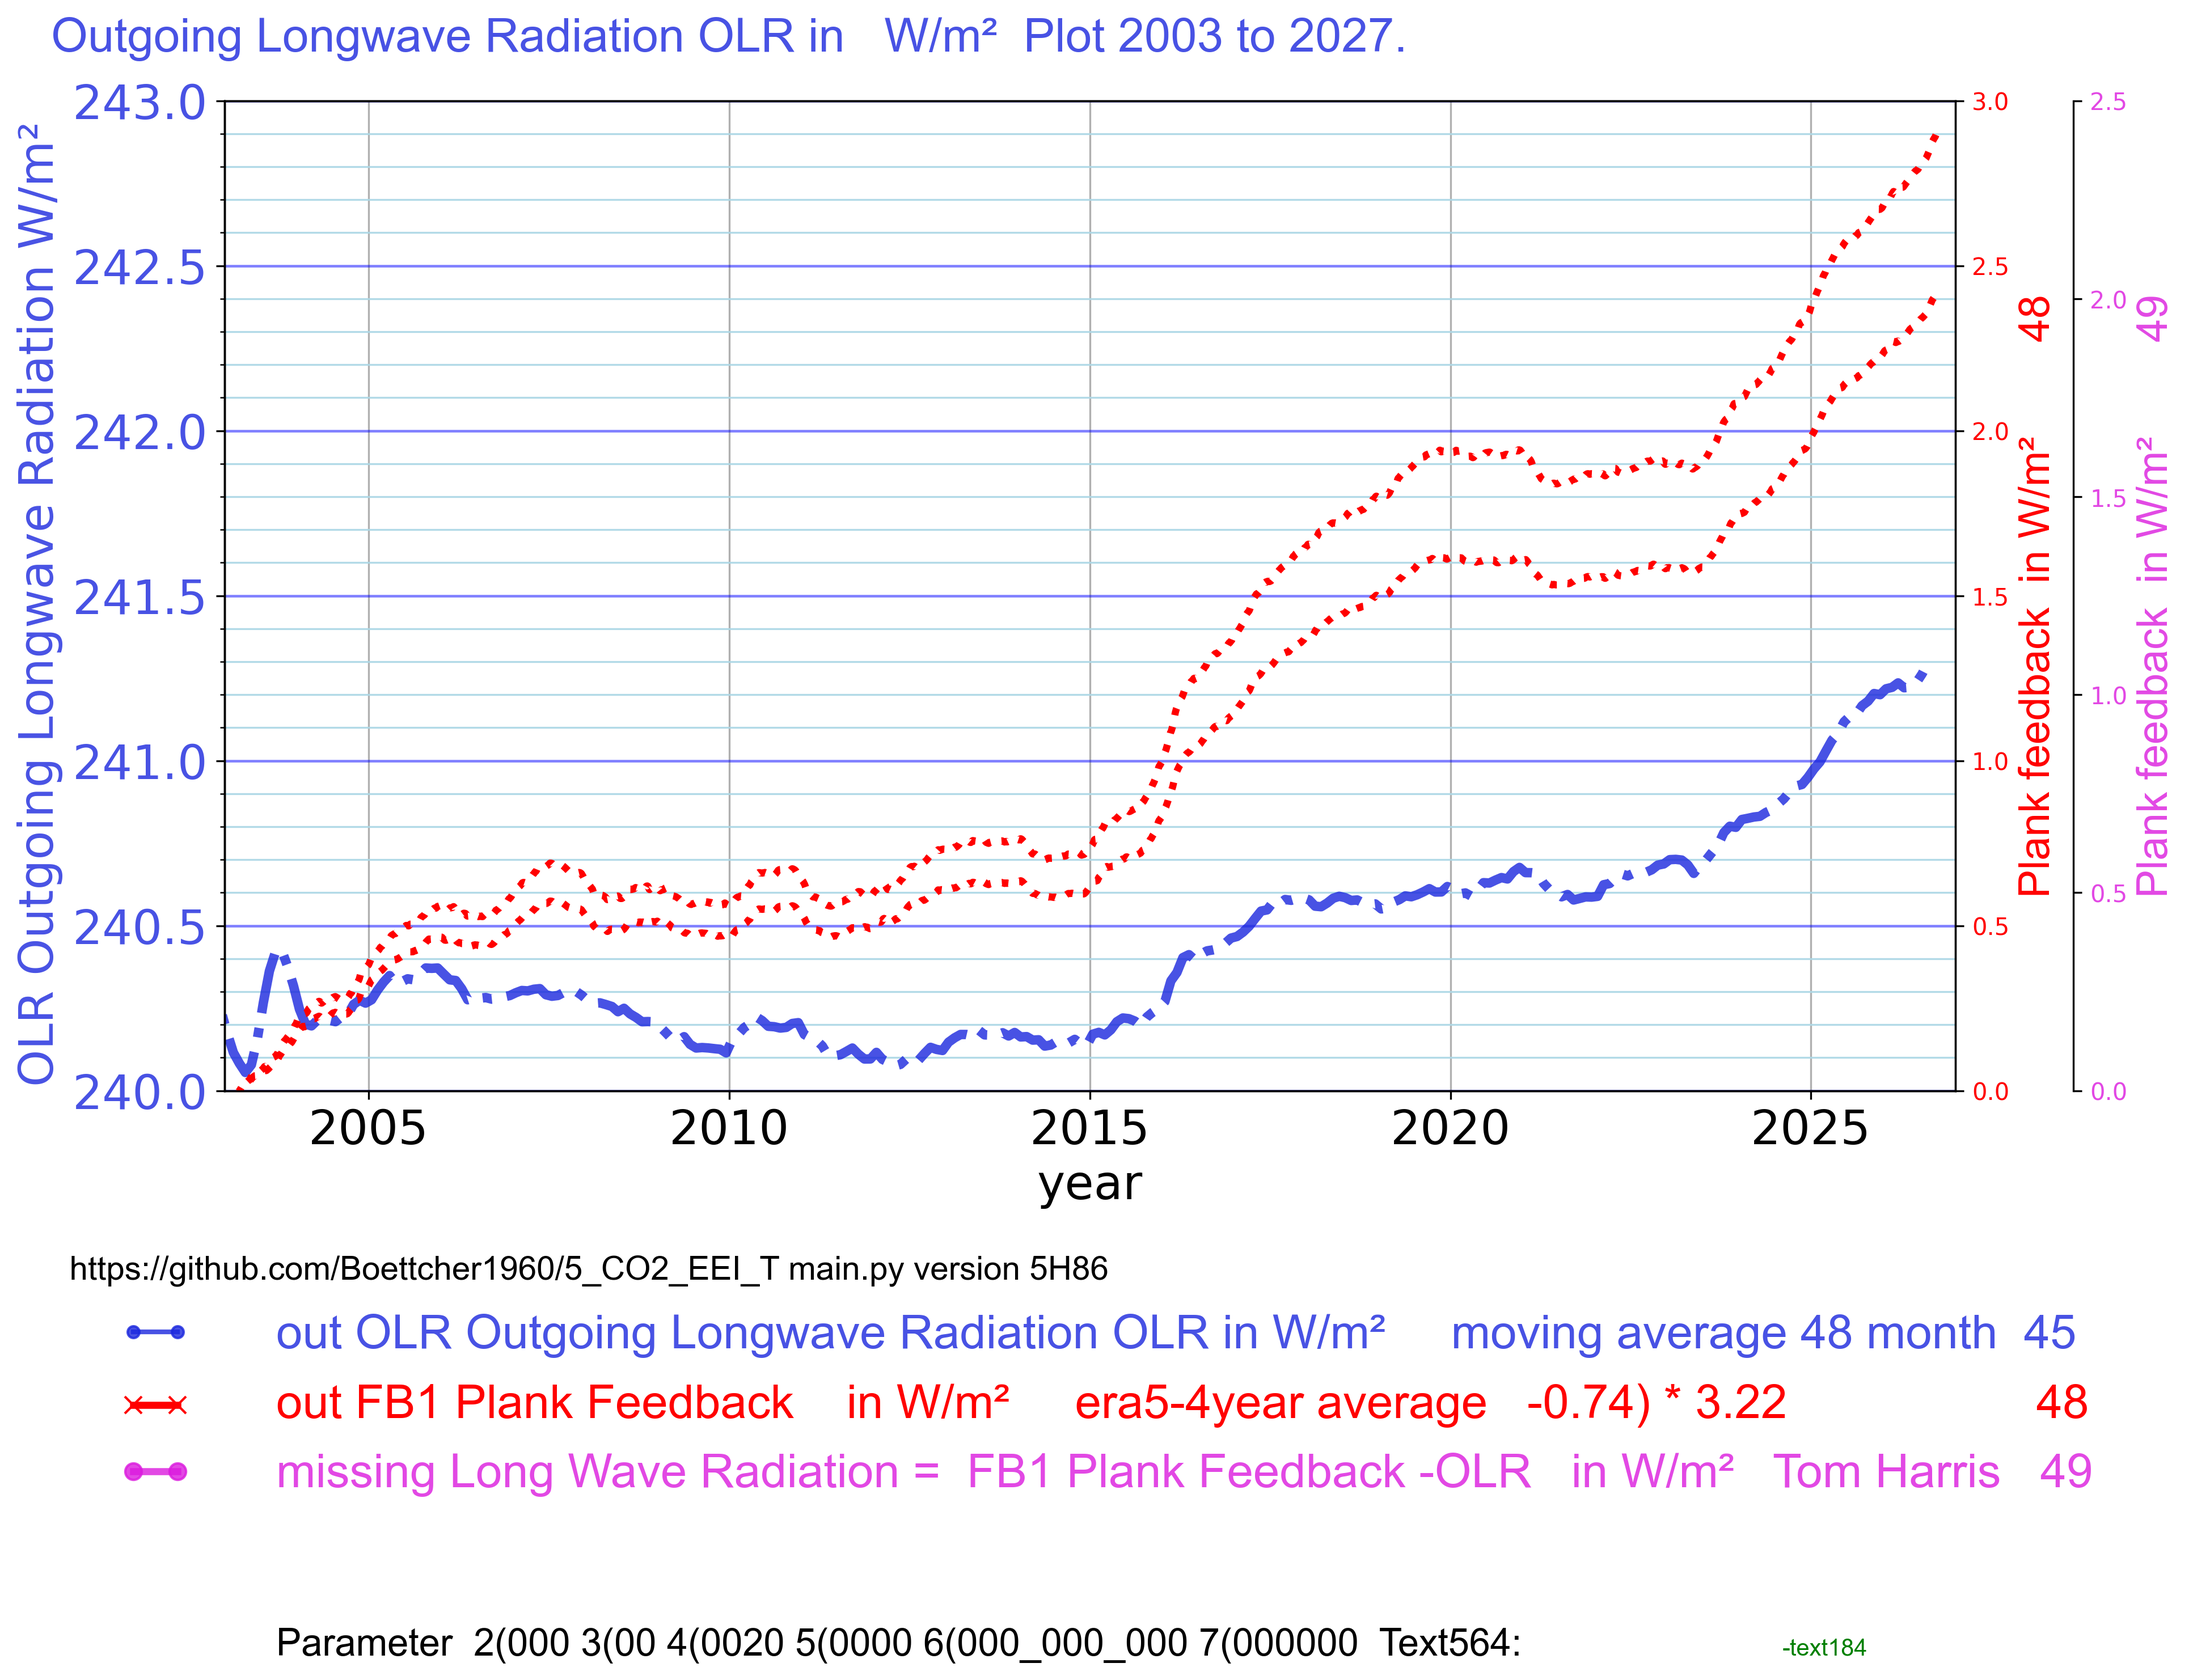
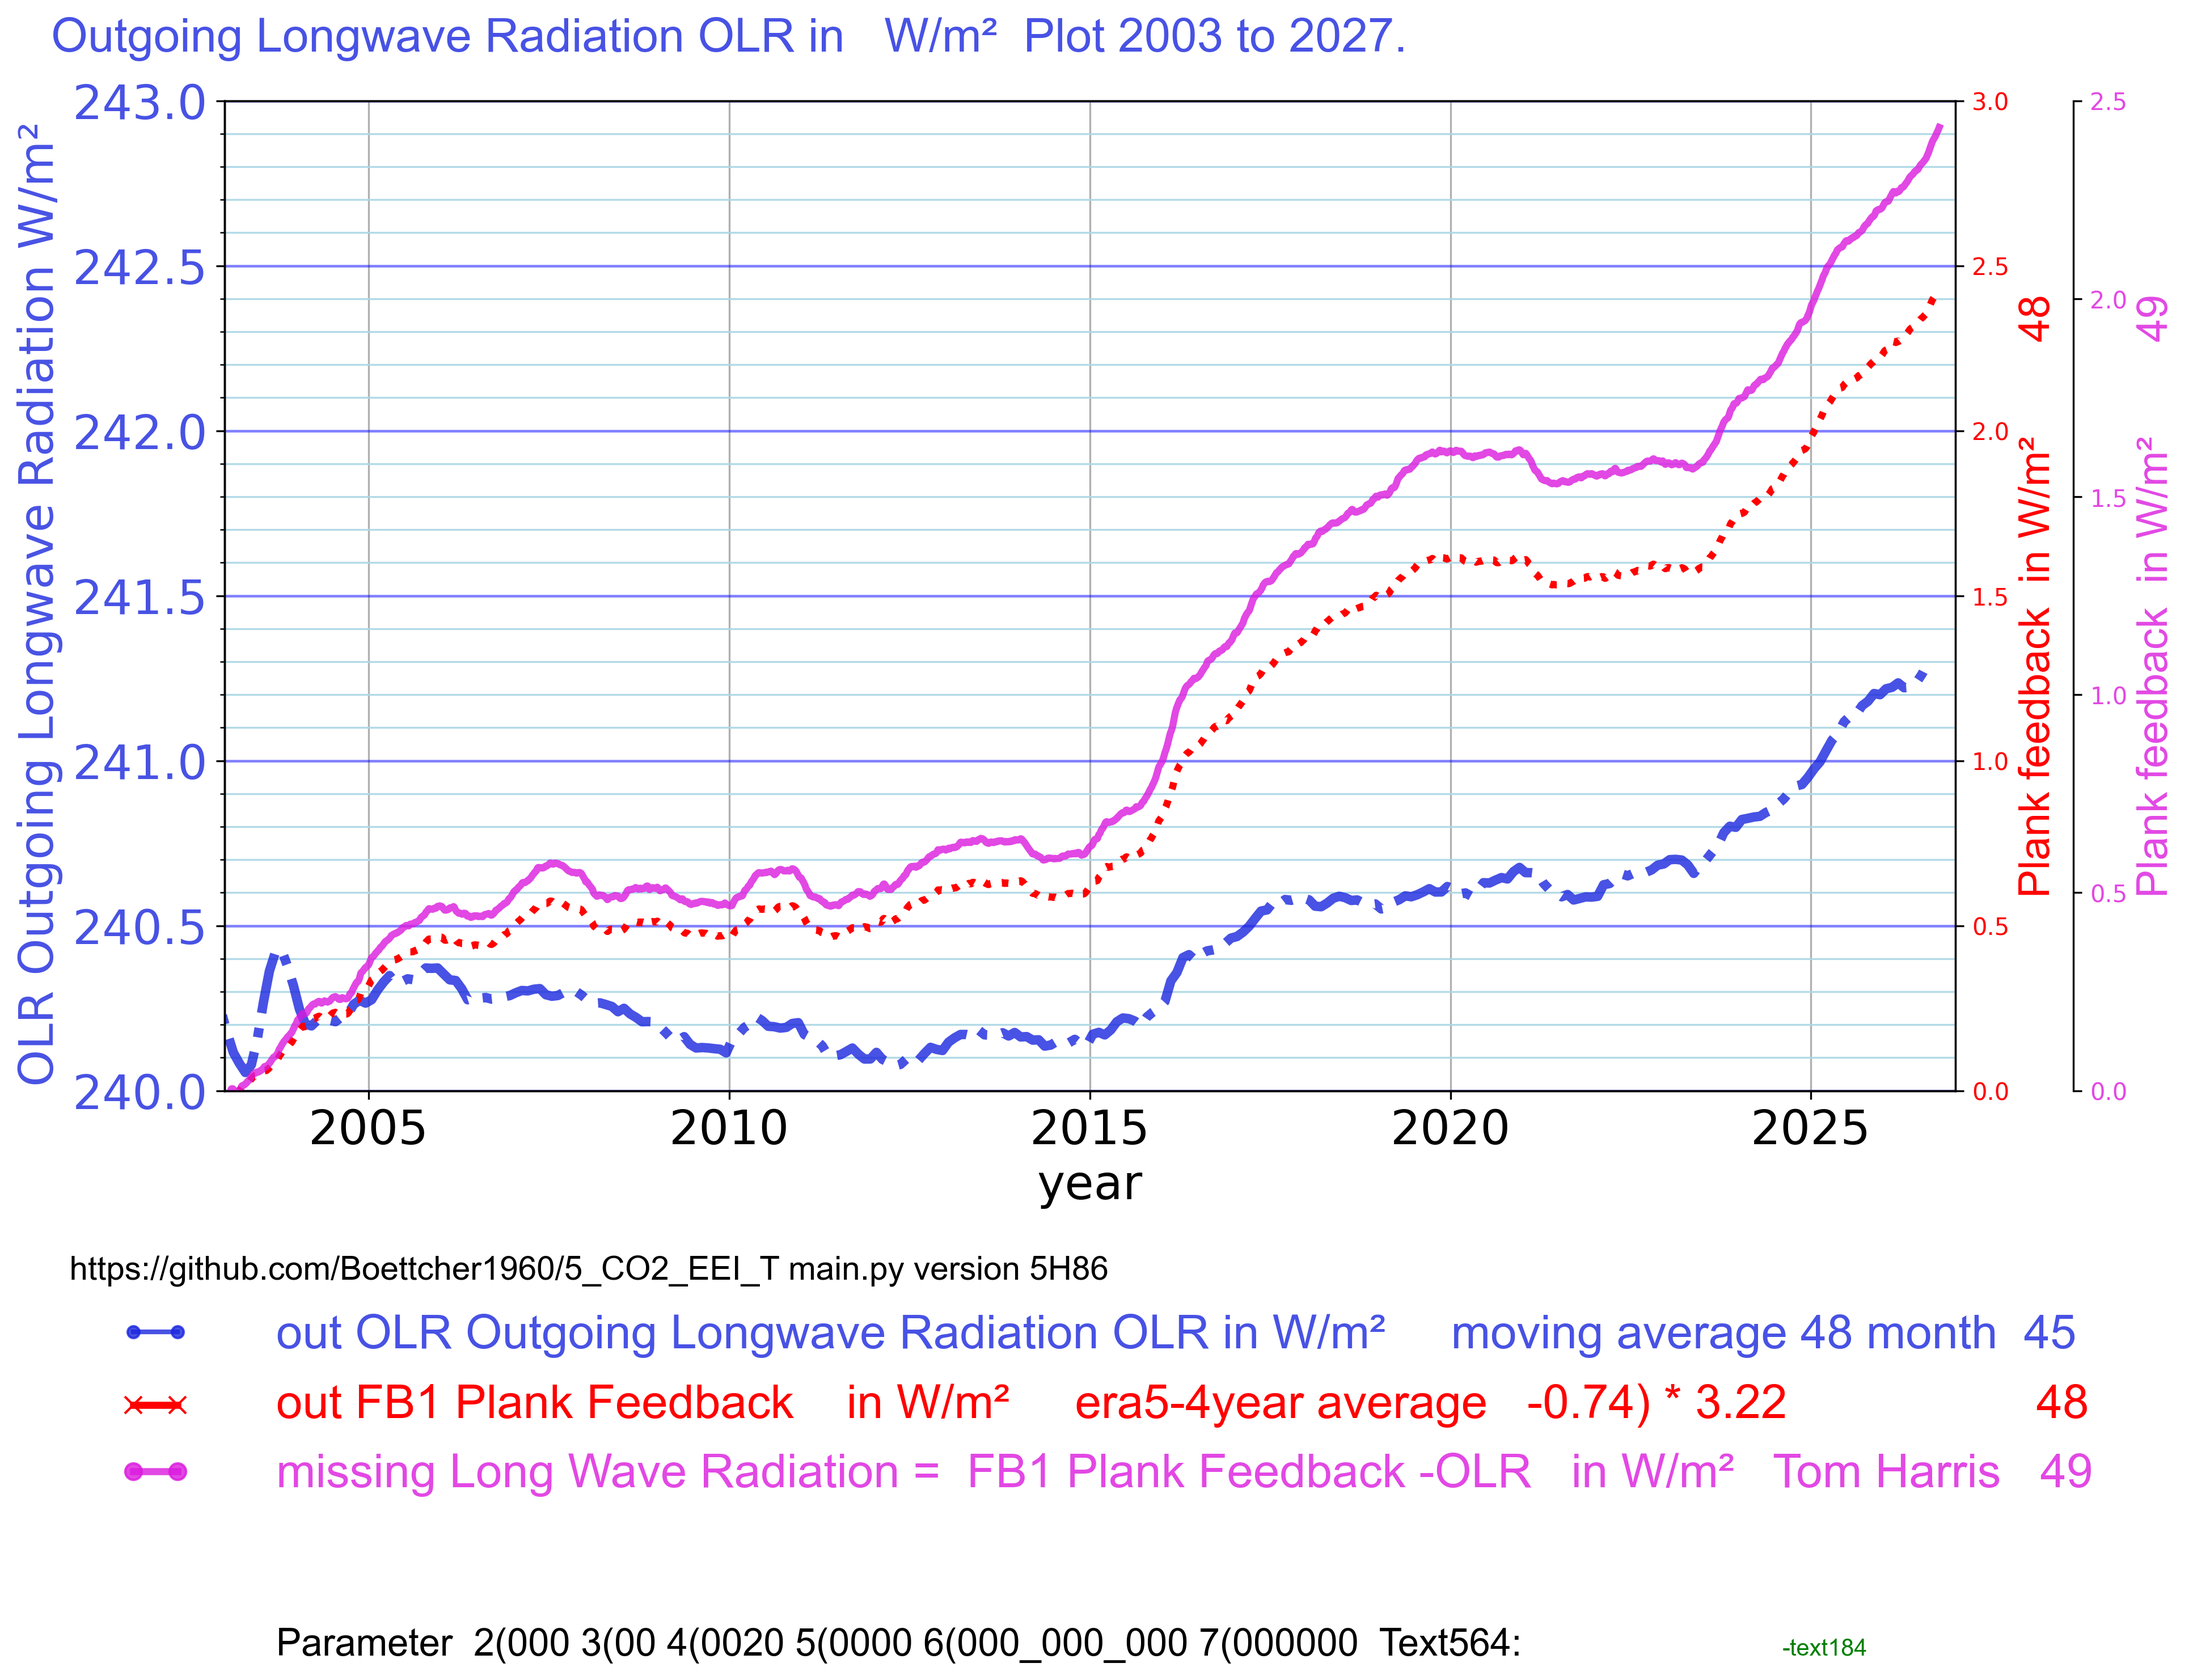
5H86

diff --git a/plotting.py b/plotting.py
@@ -1077,21 +1077,21 @@ def plot_9_create_all_plots(ax1, data):
               plot8_right_y_axe_for_47( ax47 , 0 ) # 47.4 line 844
     if plank48 > 0 : # 74.4
         # if plank48 == 2:
-           #ax1.plot(data['gis_temp']["Year74"], data['gis_temp']["GIS_temp"]+0.3, '-', 
+           #ax48.plot(data['plank4']["decimal_year"], (data['plank4']["temp_average"] - 0.74) * 3.22, ':',
            #       label="T GIS K74", color=c74, linewidth=3)
         # else:   ax48.plot(data['plank4']["decimal_year"], data['plank4']["temp_average"]-0.74, '-', 
            ax48 = ax1.twinx()
            ax48.plot(data['plank4']["decimal_year"], (data['plank4']["temp_average"] - 0.74) * 3.22, ':', 
-                  label="T plank4", color=c74, linewidth=3)
-           ax48.tick_params(axis="y", labelcolor=c74)
+                  label="T plank4", color=c48, linewidth=3)
+           ax48.tick_params(axis="y", labelcolor=c48)
            ax48.set_ylim(y_48min, y_48max)
            if plank48 > 2:
               plot8_right_y_axe_for_T_48(ax48,0) # 
     if plot49 > 0 : # 74.4
             ax49 = ax1.twinx()
-            ax49.plot(data['plank4']["decimal_year"], (data['plank4']["temp_average"] - 0.74) * 3.22, ':', 
-                         label="T plank4", color=c74, linewidth=3)
-            ax49.tick_params(axis="y", labelcolor=c74)
+            ax49.plot(data['plank5']["decimal_year"], (data['plank5']["temp_average"] - 0.74) * 3.22, '-', 
+                         label="T plank49", color=c49, linewidth=3)
+            ax49.tick_params(axis="y", labelcolor=c49)
             ax49.set_ylim(y_49min, y_49max)
             if plot49 > 2:
                 plot8_right_y_axe_for_T_49(ax49,0) # 

diff --git a/main.py b/main.py
@@ -340,7 +340,7 @@ def load_plot_data():
     if plank48 > 0: #  pd.read_csv("work/_48_era5_in.csv")
         data['plank4'] = pd.read_csv("work/_48_era5_in.csv")
     if plot49 > 0: #  pd.read_csv("work/_48_era5_in.csv")
-        data['plank4'] = pd.read_csv("work/_48_era5_in.csv")
+        data['plank5'] = pd.read_csv("work/_48_era5_in.csv")
     # part 5.2 plot52_delta_CO2_red_bars
     # part 5.3 plot53_CO2_orange2025
     # part 5.4 plot54_Glen_delta_on
